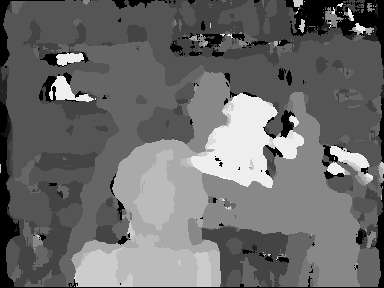
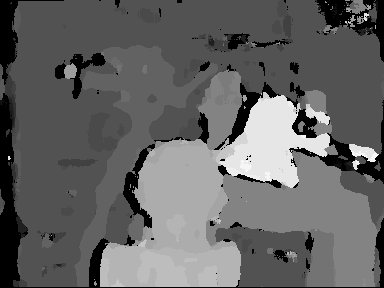
updated image generation

diff --git a/run_stereo_simulation.py b/run_stereo_simulation.py
@@ -28,13 +28,13 @@ def main():
     image=args.image
     # These are the input images to be evaluated
     if image=="Tsukuba":
-        Thresh=16
+        Thresh=32 # Factor 8 for rendering the image 255/8=32
     if image=="Cones":
-        Thresh=64
+        Thresh=64 # Factor 4 for rendering the image 255/4=64
     if image=="Teddy":
-        Thresh=48
+        Thresh=64 # Factor 4 for rendering the image 255/4=64
     if image=="Venus":
-        Thresh=32
+        Thresh=32 # Factor 8 for rendering the image 255/8=32
 
     Left_image = np.array(Image.open(f"./dataset/{image}L.png").convert('L'))
     Right_image = np.array(Image.open(f"./dataset/{image}R.png").convert('L'))
@@ -76,7 +76,7 @@ def main():
     # removing parameters from previous configurations:
     File_path=os.getcwd()
     print(File_path)
-    #os.system("rm *.txt")
+    os.system("rm *.txt")
 
 if __name__=='__main__':
     main()

diff --git a/run_stereo_simulation_verilog.py b/run_stereo_simulation_verilog.py
@@ -29,13 +29,14 @@ def main():
     image=args.image
     # These are the input images to be evaluated
     if image=="Tsukuba":
-        Thresh=16
+        Thresh=32 # Factor 8 for rendering the image 255/8=32
     if image=="Cones":
-        Thresh=64
+        Thresh=64 # Factor 4 for rendering the image 255/4=64
     if image=="Teddy":
-        Thresh=48
+        Thresh=64 # Factor 4 for rendering the image 255/4=64
     if image=="Venus":
-        Thresh=32
+        Thresh=32 # Factor 8 for rendering the image 255/8=32
+        
     # These are the input images to be evaluated
 
     Left_image = np.array(Image.open(f"./dataset/{image}L.png").convert('L'))

diff --git a/README.md b/README.md
@@ -51,7 +51,7 @@ When the simulation ends, you will obtain a new image called Disparity_map.png, 
 |:-:|:-:|:-:|:-:|
 |Image| Left Image          |      Right Image     |     Output Result in grayscale    |
 |Tsukuba| ![Leftimg](dataset/TsukubaL.png) | ![rightim](dataset/TsukubaR.png)  |![Disparity_map](docs/img/Disparity_map_tsukuba.png)|
-|Cones| ![Leftimg](dataset/ConesL.png) | ![rightim](dataset/ConesR.png)  |![Disparity_map](docs/img/Disparity_map_Cones.png)|
+|Cones| ![Leftimg](dataset/ConesL.png) | ![rightim](dataset/ConesR.png)  |![Disparity_map](docs/img/Disparity_map_cones.png)|
 |Teddy| ![Leftimg](dataset/TeddyL.png) | ![rightim](dataset/TeddyR.png)  |![Disparity_map](docs/img/Disparity_map_teddy.png)|
 |Venus| ![Leftimg](dataset/VenusL.png) | ![rightim](dataset/VenusR.png)  |![Disparity_map](docs/img/Disparity_map_venus.png)|
 
